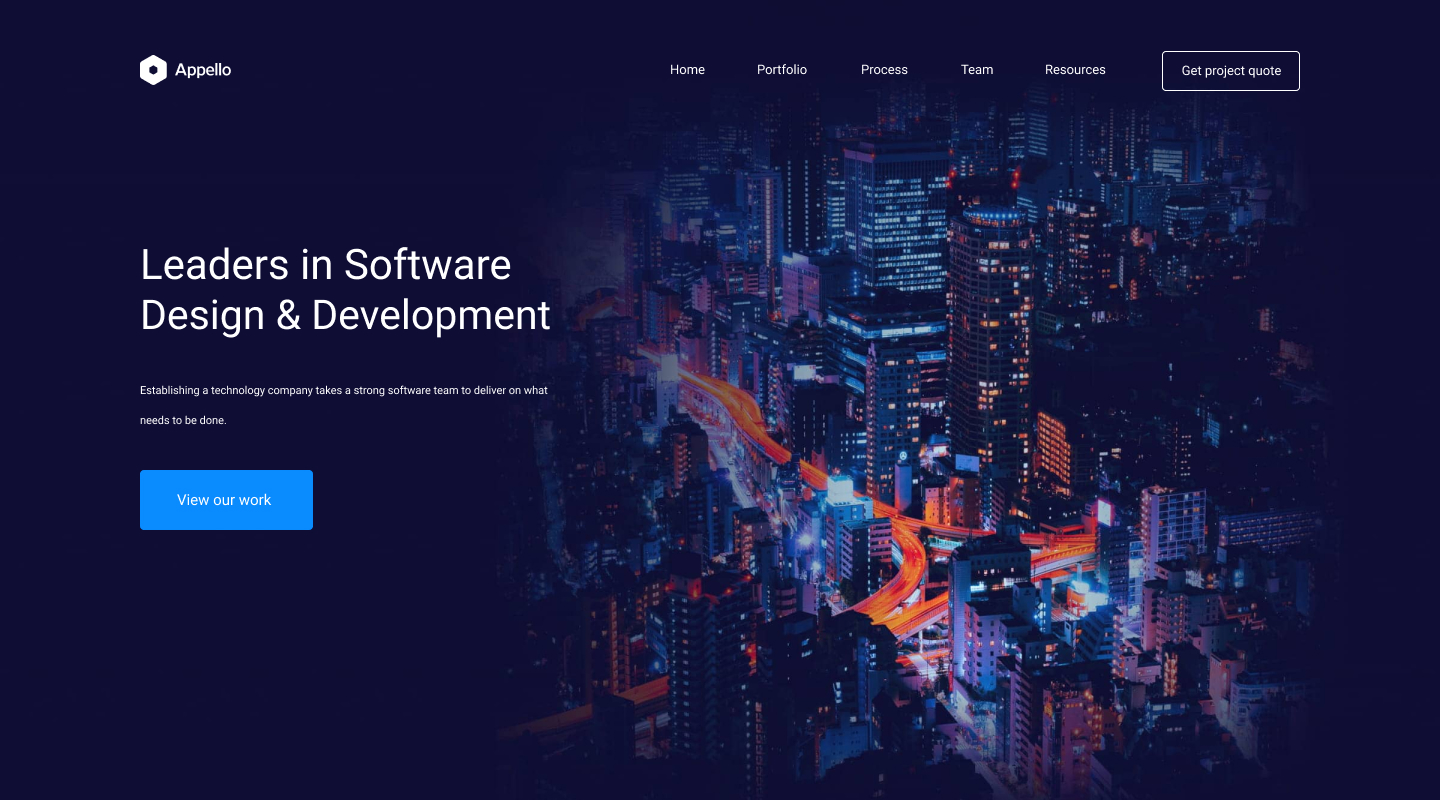
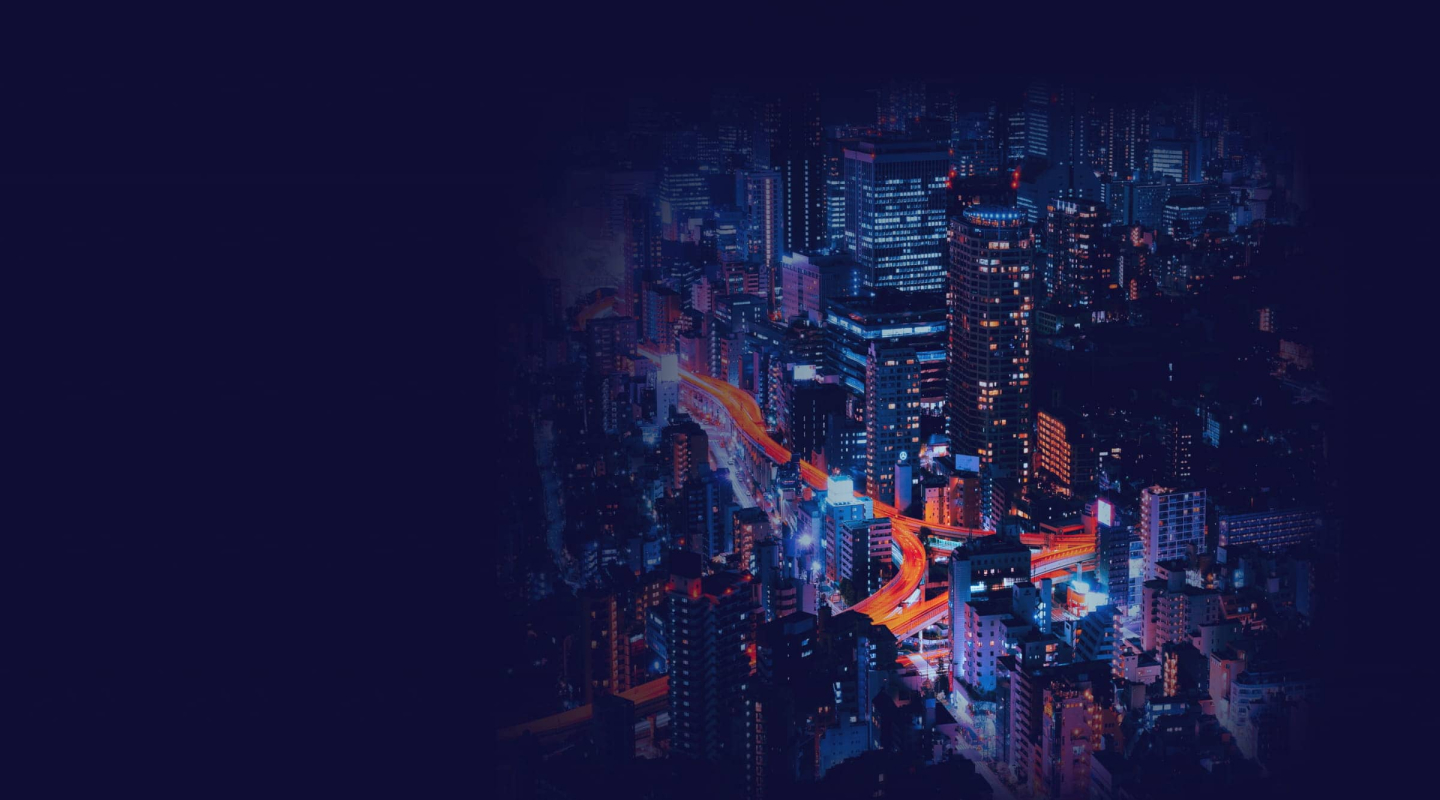
add

diff --git a/index.html b/index.html
@@ -2,34 +2,65 @@
 <head>
     <meta charset="UTF-8">
     <meta name="viewport" content="width=device-width, initial-scale=1.0">
-    <title>Document</title>
-    <link rel="stylesheet" href="assets/css/style.css"/>
-    <link rel="stylesheet" href="https://cdn.jsdelivr.net/npm/modern-normalize@3.0.1/modern-normalize.min.css">
+    <title>Appello</title>
+    
+    <!-- Boostrap CSS -->
+    <link href="https://cdn.jsdelivr.net/npm/bootstrap@5.3.8/dist/css/bootstrap.min.css" rel="stylesheet" integrity="sha384-sRIl4kxILFvY47J16cr9ZwB07vP4J8+LH7qKQnuqkuIAvNWLzeN8tE5YBujZqJLB" crossorigin="anonymous">
+    
+    <!-- FontAwesome CSS -->  
+    <link rel="stylesheet" href="https://cdnjs.cloudflare.com/ajax/libs/font-awesome/7.0.1/css/all.min.css" integrity="sha512-2SwdPD6INVrV/lHTZbO2nodKhrnDdJK9/kg2XD1r9uGqPo1cUbujc+IYdlYdEErWNu69gVcYgdxlmVmzTWnetw==" crossorigin="anonymous" referrerpolicy="no-referrer" />
+
+    <!-- Inter Font CSS -->  
     <link rel="preconnect" href="https://fonts.googleapis.com">
-<link rel="preconnect" href="https://fonts.gstatic.com" crossorigin>
-<link href="https://fonts.googleapis.com/css2?family=Raleway:ital,wght@0,100..900;1,100..900&family=Roboto:ital,wght@0,100..900;1,100..900&family=Rubik:wght@300..900&display=swap" rel="stylesheet">
+    <link rel="preconnect" href="https://fonts.gstatic.com" crossorigin>
+    <link href="https://fonts.googleapis.com/css2?family=Roboto:ital,wght@0,100..900;1,100..900&display=swap" rel="stylesheet">
+
+    <!-- Our CSS -->
+    <link rel="stylesheet" href="assets/css/style.css">
+
+    <!-- Fav Icon -->
+    <link rel="icon" type="image/x-icon" href="assets/img/favicon.png">
 </head>
 <body>
-    <!--HEADER-->
-    <header>
-        <a href=""><img src="assets/image/logo_appello.svg" alt="Appello logo"><span>APPELLO</span></a>
-        <nav>
-            <ul>
-                <li>Home</li>
-                <li>Portfolio</li>
-                <li>Process</li>
-                <li>Team</li>
-                <li>Resources</li>
-            </ul>
-            <button>Get project quote</button>
-        </nav>
-    </header>
-    <!--HERO-->
-    <div>
-        <h1>Leaders in Software Design & Development</h1>
-            <p>Establishing a technology company takes a strong software team to deliver on what needs to be done.</p>
-            <button>View our work</button>
-    </div>
+    <!--HERO SECTION background-->
+    <section class="hero-section text-white">
+        <!--HEADER-->
+        <header>
+          <nav class="navbar navbar-expand-sm bg-glass ps-2 pe-2">
+            <div class="container-fluid">
+              <a class="navbar-brand" href="#">
+                <h6>Music</h6>
+                <h6>NFT Platform</h6>
+              </a>
+              <button class="navbar-toggler" type="button" data-bs-toggle="collapse" data-bs-target="#navbarNav" aria-controls="navbarNav" aria-expanded="false" aria-label="Toggle navigation">
+                <span class="navbar-toggler-icon"></span>
+              </button>
+              <div class="collapse navbar-collapse" id="navbarNav">
+                <ul class="navbar-nav mx-auto">
+                  <li class="nav-item ms-2 me-2">
+                    <a class="nav-link link-light" aria-current="page" href="#marketplace">MARKETPLACE</a>
+                  </li>
+                  <li class="nav-item ms-2 me-2">
+                    <a class="nav-link link-light" href="#about">ABOUT</a>
+                  </li>
+                  <li class="nav-item ms-2 me-2">
+                    <a class="nav-link link-light" href="#resources">RESOURCES</a>
+                  </li>
+                  <li class="nav-item ms-2 me-2">
+                    <a class="nav-link link-light" href="#faq">FAQ</a>
+                  </li>
+                </ul>
+              </div>
+            </div>
+          </nav>
+        </header>
+        <!--HERO-->
+        <div>
+            <h1>Leaders in Software Design & Development</h1>
+                <p>Establishing a technology company takes a strong software team to deliver on what needs to be done.</p>
+                <button>View our work</button>
+        </div>
+    </section>
     <!--SERVICES-->
     <section>
         <div>
@@ -336,5 +367,10 @@
             <p>Sitemap</p>
         </div>
     </footer>
+     <!-- Boostrap JS -->
+    <script src="https://cdn.jsdelivr.net/npm/bootstrap@5.3.8/dist/js/bootstrap.bundle.min.js" integrity="sha384-FKyoEForCGlyvwx9Hj09JcYn3nv7wiPVlz7YYwJrWVcXK/BmnVDxM+D2scQbITxI" crossorigin="anonymous"></script>
+    
+    <!-- Smooth Scroll JS -->
+    <script src="https://cdnjs.cloudflare.com/ajax/libs/smooth-scroll/16.1.3/smooth-scroll.min.js" integrity="sha512-HYG9E+RmbXS7oy529Nk8byKFw5jqM3R1zzvoV2JnltsIGkK/AhZSzciYCNxDMOXEbYO9w6MJ6SpuYgm5PJPpeQ==" crossorigin="anonymous" referrerpolicy="no-referrer"></script>
 </body>
 </html>

diff --git a/assets/css/style.css b/assets/css/style.css
@@ -1,7 +1,25 @@
-:root{
-
-}
-
 body {
    font-family: "Roboto", sans-serif;
+}
+
+.hero-section {
+  background-image: url('/assets/image/background_1.jpg');
+   background-size: cover;
+  background-position: center;
+  background-repeat: no-repeat;
+  min-height: 100vh; /* чтобы фон покрывал весь экран */
+  color: white;
+  position: relative;
+}
+.hero-section::before {
+  content: "";
+  position: absolute;
+  inset: 0;
+  background: rgba(0, 0, 30, 0.6); /* затемнение картинки */
+  z-index: 0;
+}
+
+.hero-section > * {
+  position: relative;
+  z-index: 1;
 }
